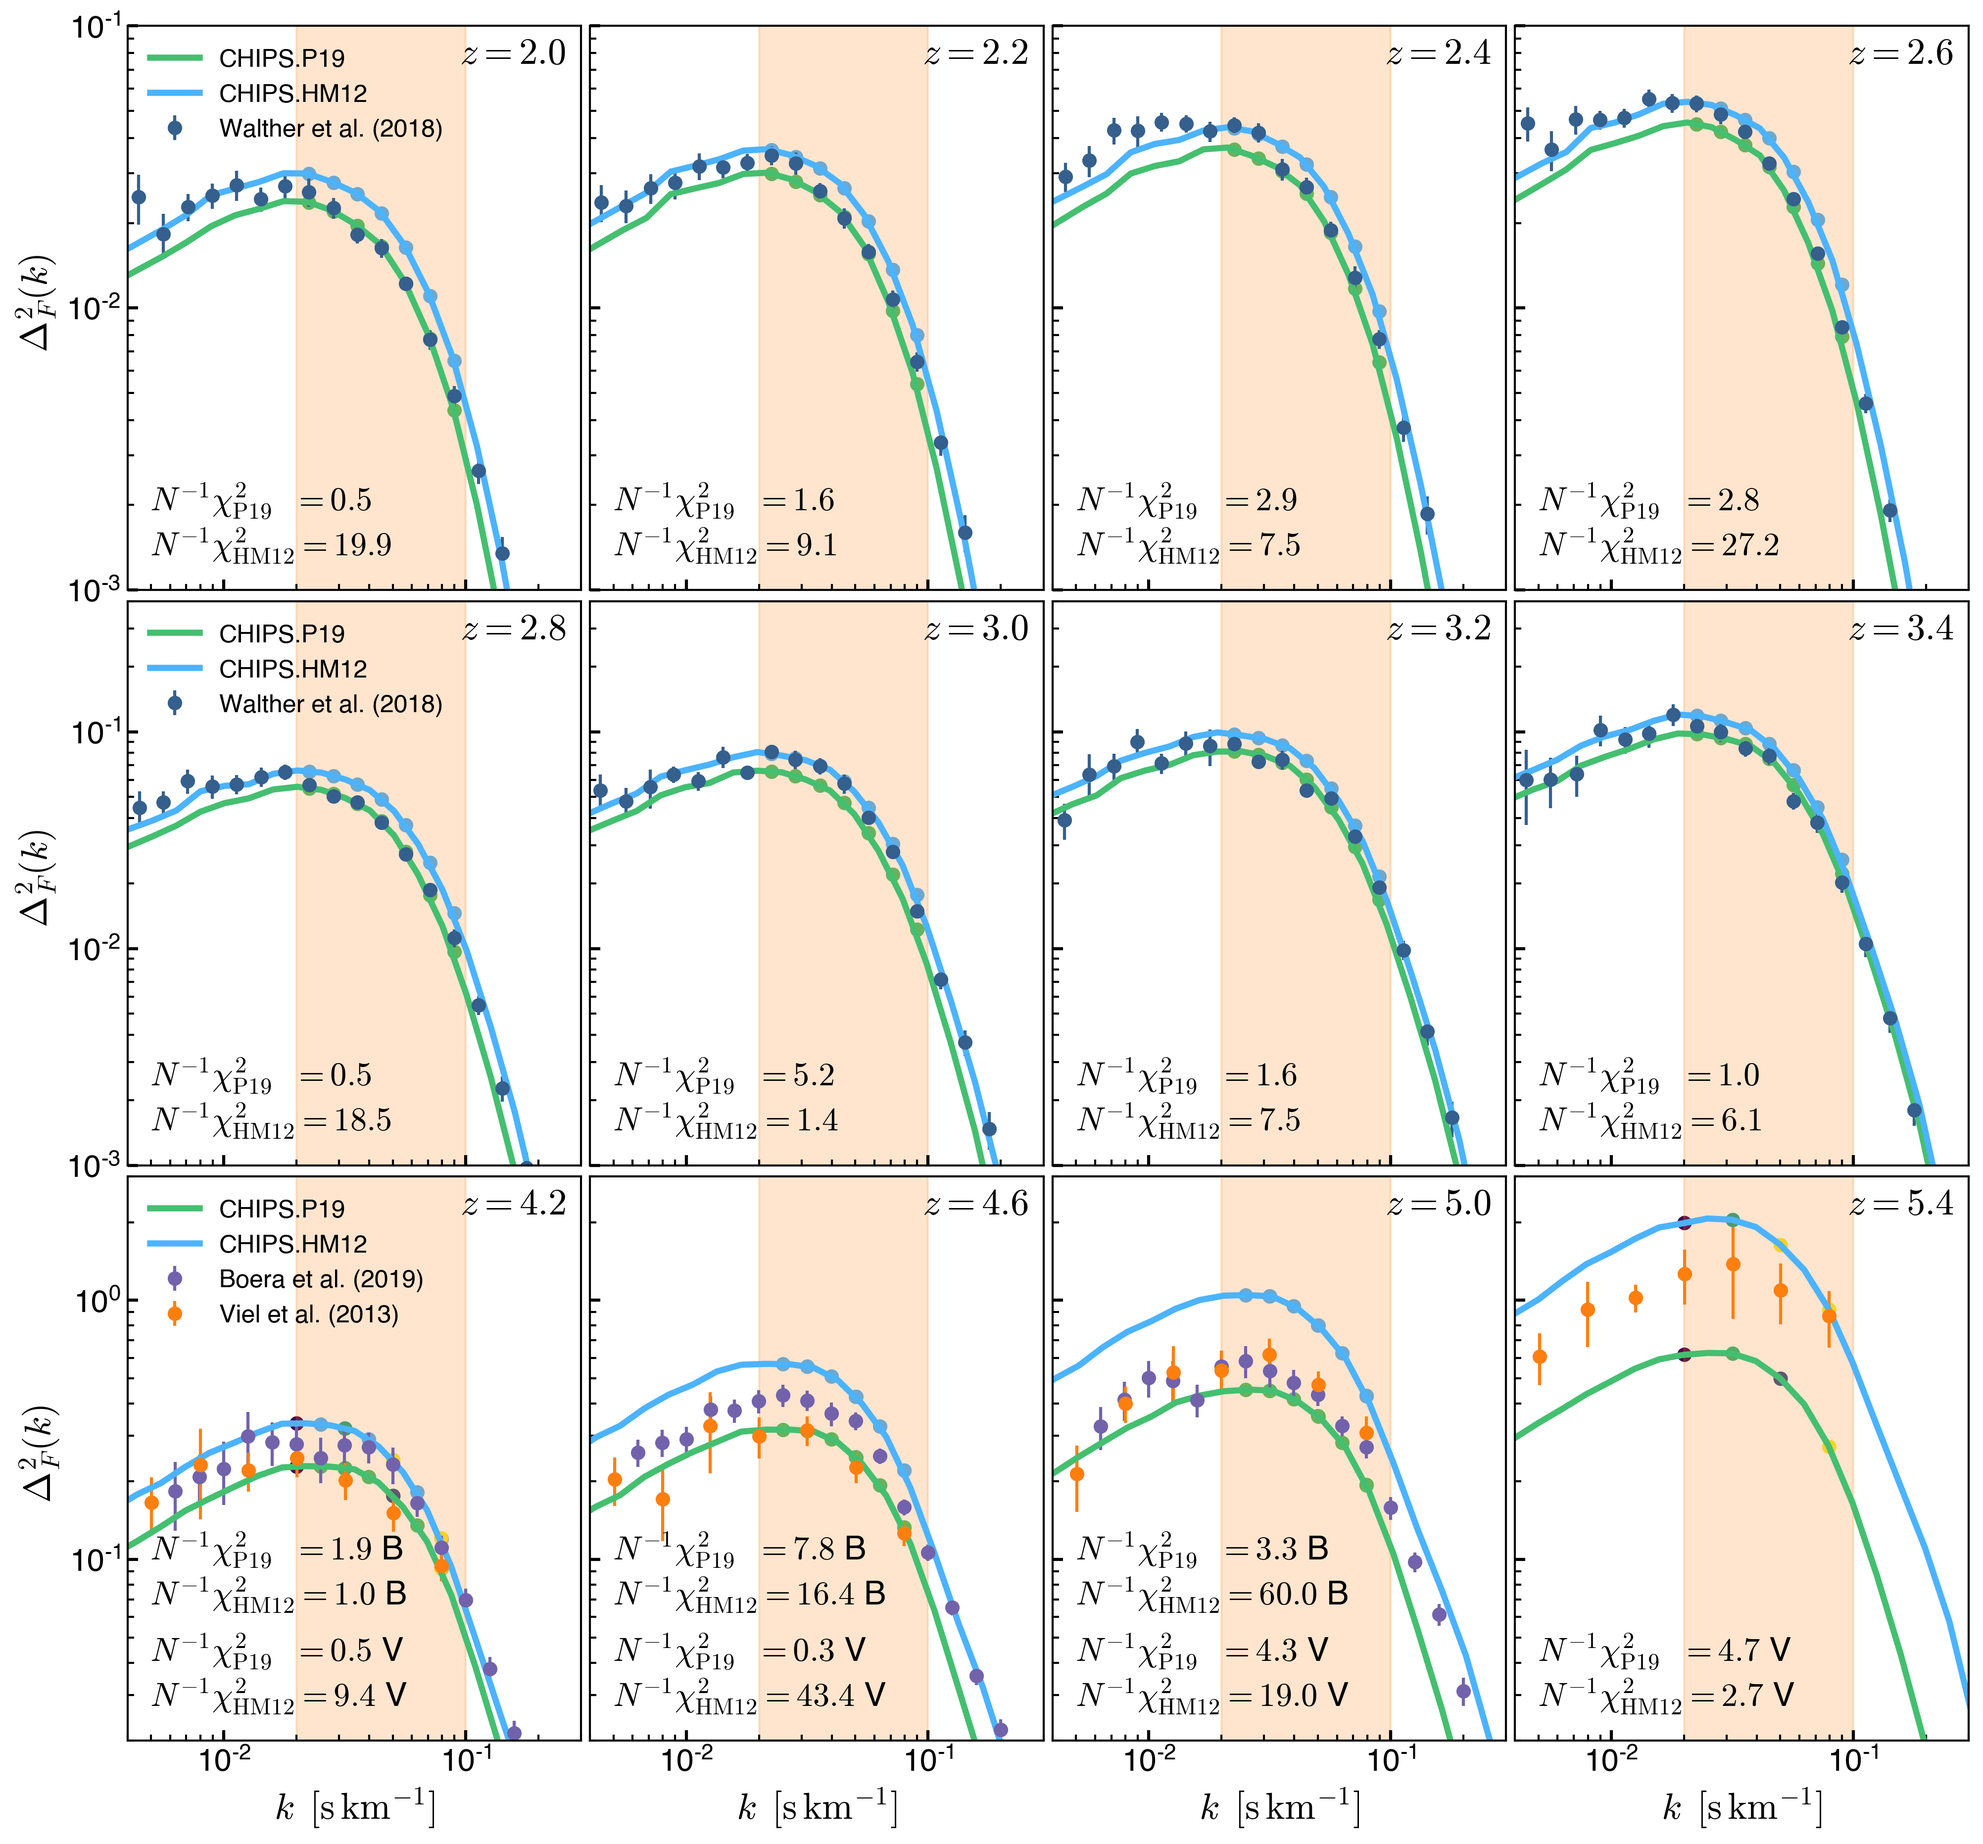
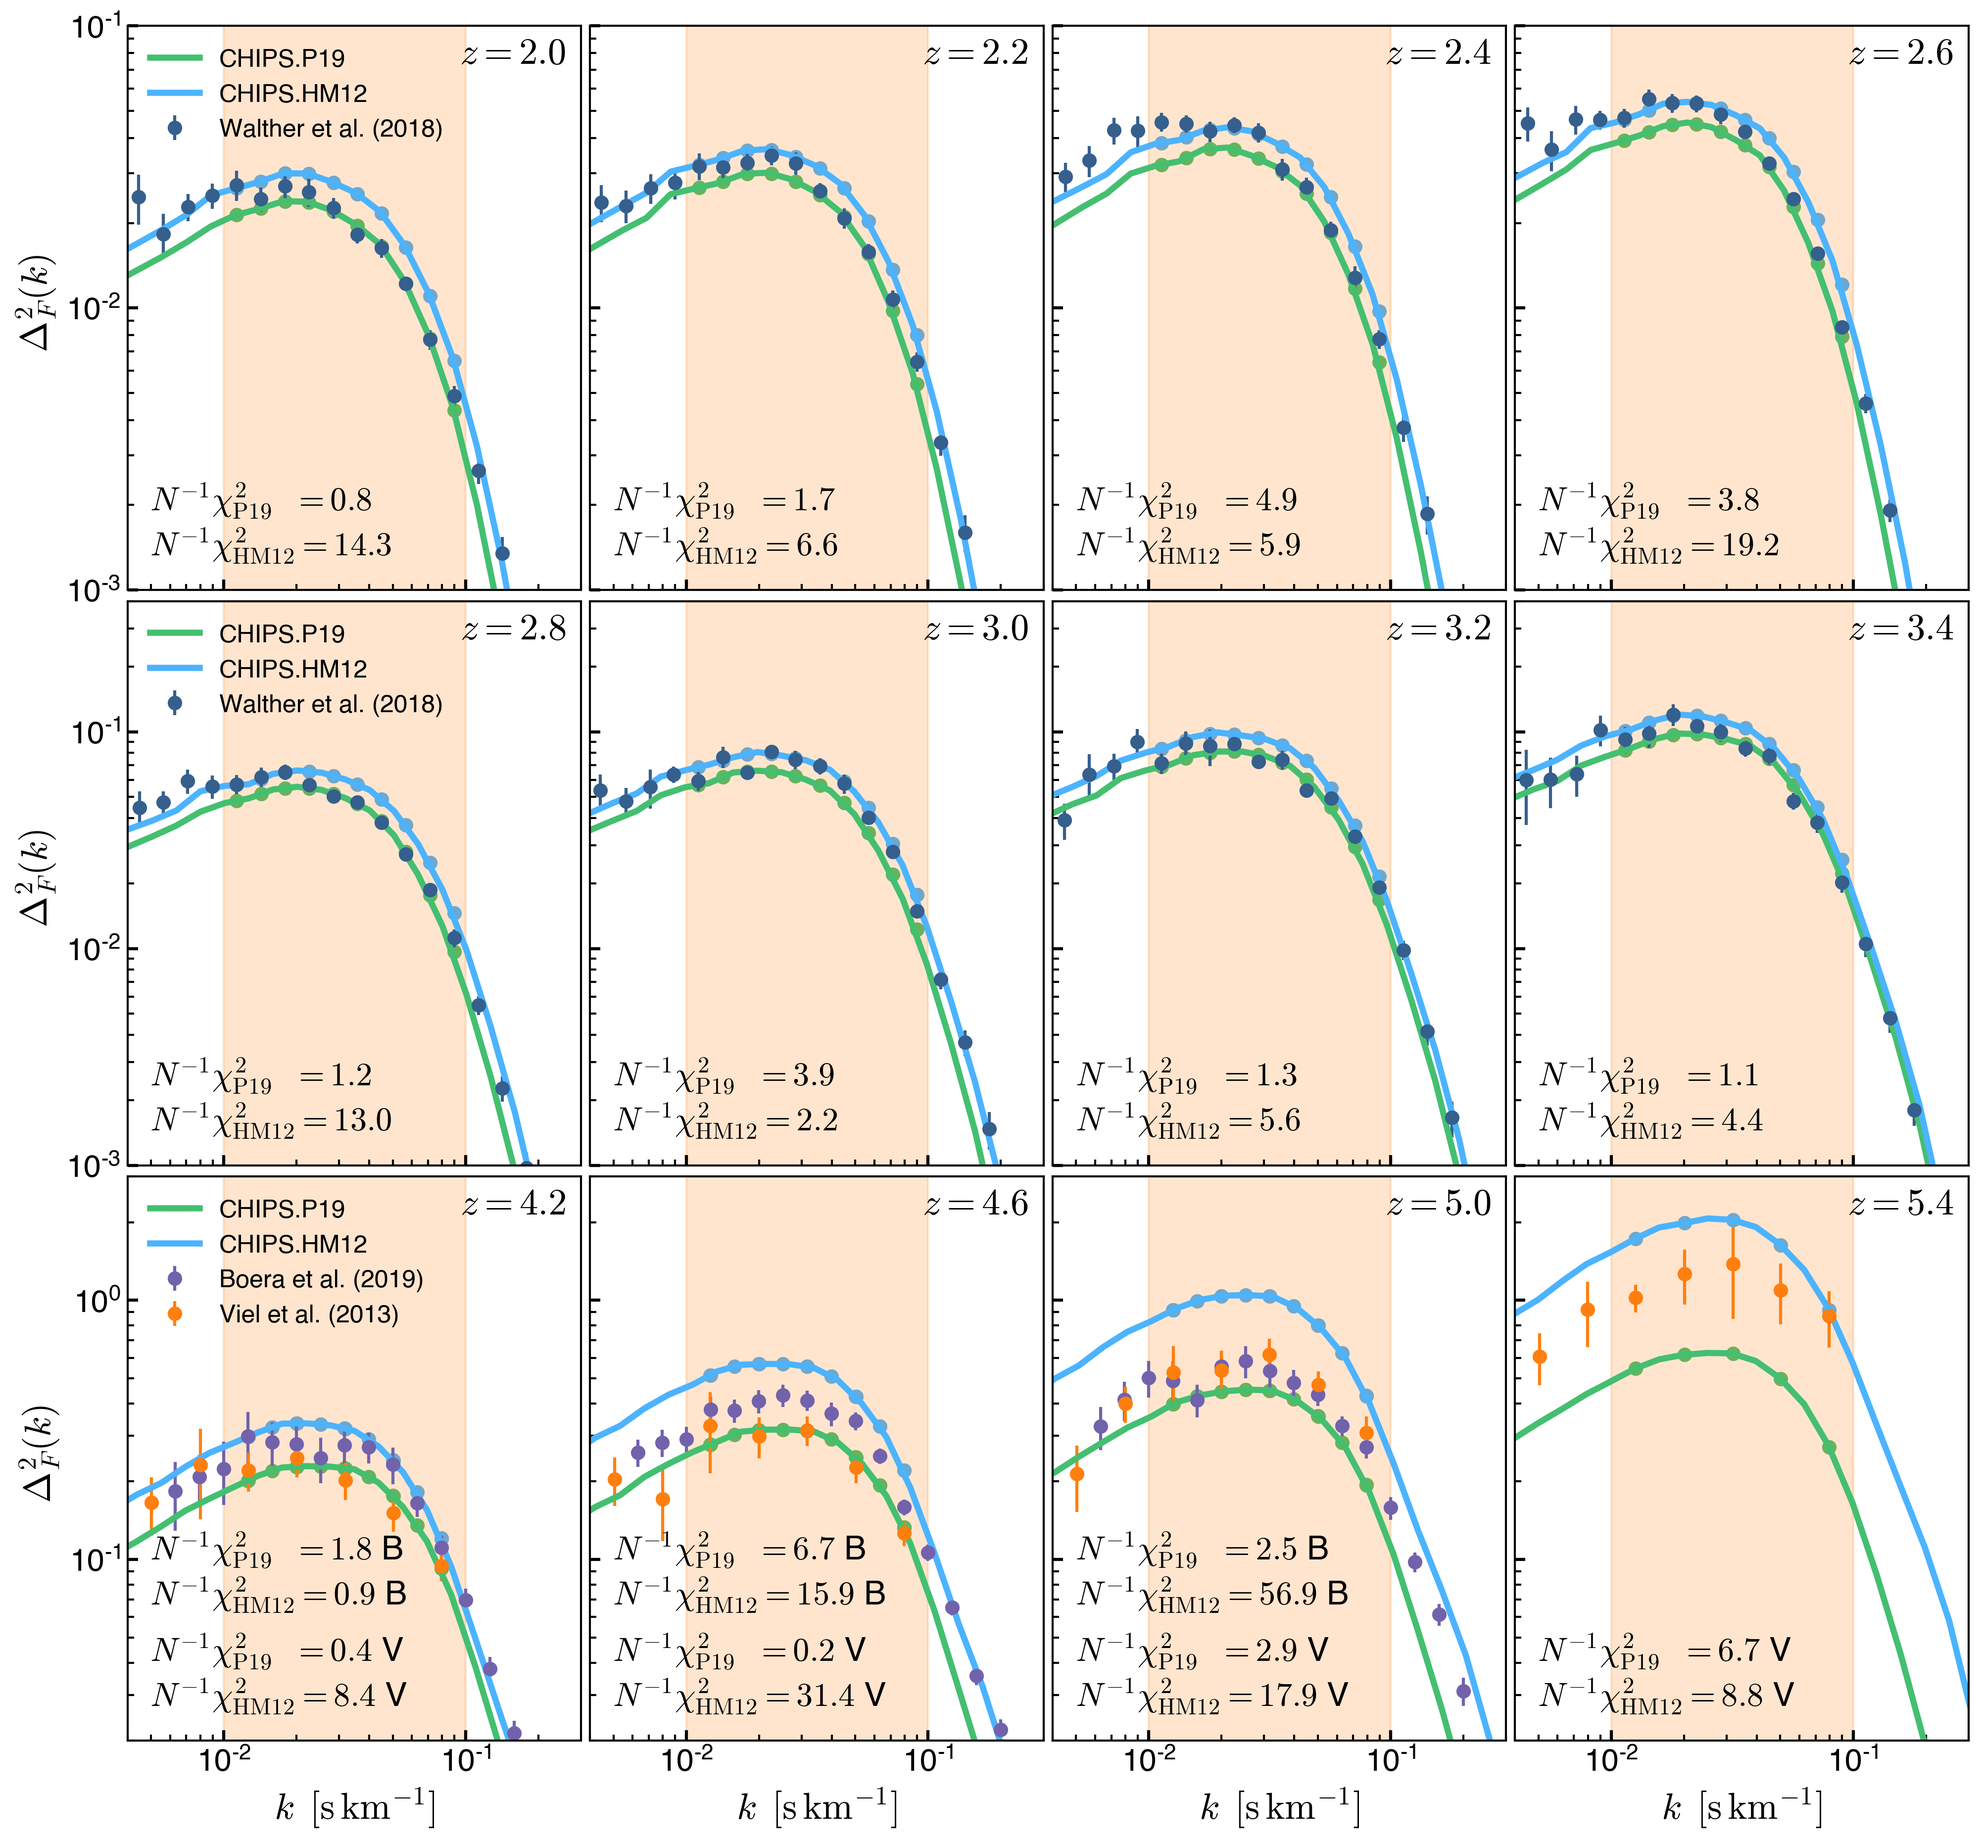
new

diff --git a/astro/_posts/2020-09-01-flux_ps_comparison_data.md b/astro/_posts/2020-09-01-flux_ps_comparison_data.md
@@ -12,12 +12,14 @@ $$  \chi^{2} = \sum_{i}^N \left[ \frac{ P(k_i)^{\mathrm{observ}} - P(k_i)^{\math
 
 
 
+The errors $$\Delta_{\mathrm{P19}}$$ and $$\Delta_{\mathrm{HM12}}$$ shown in the figures for each snapshot are computed as:
+
+
+$$\Delta = \sqrt{ \frac{ \chi^2 }{ N } } $$ 
 
 <img src="{{ site.url }}assets/images/fps_comparison_boss.png">
 
 
-
+For the small scale  comparison the scales selected are $$ 0.01 \leq k \leq 0.1 \, \mathrm{s} \, \mathrm{km}^1 $$ and the measurements of $$\chi^2$$ is computed separately for each of the observational data sets. 
 
 <img src="{{ site.url }}assets/images/fps_comparison.png">
-
-git 
